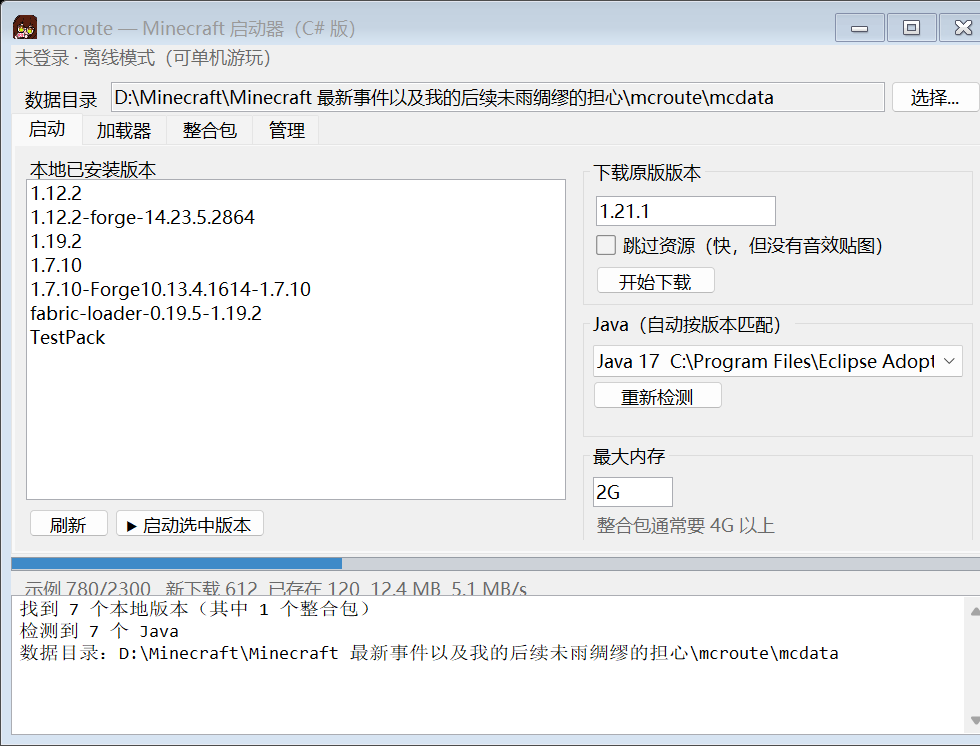
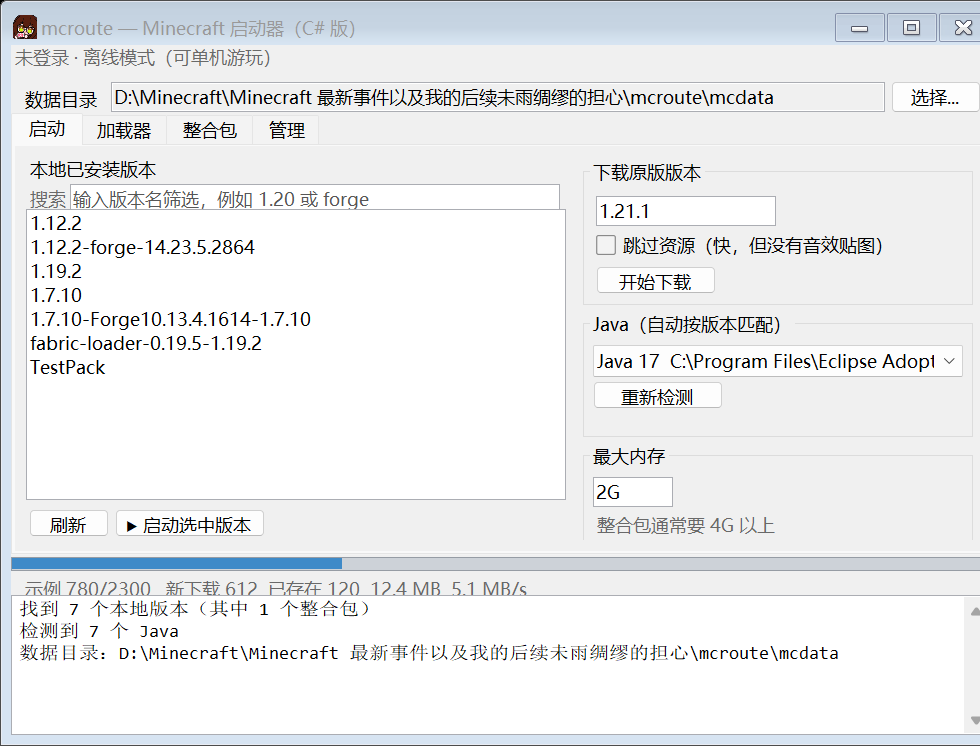
feat: version search filter + double-click/Enter launch; add UI design reference mockup

Changed region(s): [[0.0306, 0.2466, 0.398, 0.5241]]

diff --git a/csharp/MainForm.cs b/csharp/MainForm.cs
@@ -27,6 +27,8 @@ namespace Mcroute
         private TextBox _dataDirBox;
         private SimpleProgress _progress;
         private TextBox _cfKeyBox;
+        private TextBox _searchBox;
+        private readonly List<string> _allVersions = new List<string>();
         private readonly List<Tuple<string, int>> _javas = new List<Tuple<string, int>>();
 
         public MainForm()
@@ -129,7 +131,20 @@ namespace Mcroute
             var leftInner = new Panel { Dock = DockStyle.Fill, Padding = new Padding(0, 0, 8, 0) };
             var listLabel = new Label { Text = "本地已安装版本", Dock = DockStyle.Top, Height = 22 };
             _versionList = new ListBox { Dock = DockStyle.Fill, IntegralHeight = false };
-            _versionList.DoubleClick += (s, e) => LaunchSelected();
+            _versionList.DoubleClick += (s, e) => LaunchSelected();   // 双击直接启动
+            _versionList.KeyDown += (s2, e2) =>
+            {
+                if (e2.KeyCode == Keys.Enter) { e2.SuppressKeyPress = true; LaunchSelected(); }
+            };
+
+            var searchRow = new Panel { Dock = DockStyle.Top, Height = 30 };
+            var searchIcon = new Label { Text = "搜索", AutoSize = true, Location = new Point(0, 8), ForeColor = Color.DimGray };
+            _searchBox = new TextBox { Left = 44, Top = 5, Width = 260, Anchor = AnchorStyles.Left | AnchorStyles.Top | AnchorStyles.Right };
+            searchRow.Resize += (s2, e2) => _searchBox.Width = Math.Max(80, searchRow.ClientSize.Width - 50);
+            _searchBox.TextChanged += (s2, e2) => ApplyVersionFilter();
+            searchRow.Controls.Add(searchIcon);
+            searchRow.Controls.Add(_searchBox);
+            ApplyCueBanner(_searchBox, "输入版本名筛选，例如 1.20 或 forge");
             var btnRow = new FlowLayoutPanel { Dock = DockStyle.Bottom, Height = 40, Padding = new Padding(0, 6, 0, 0) };
             var refresh = new Button { Text = "刷新", Width = 80, Height = 28 };
             refresh.Click += (s, e) => RefreshAll();
@@ -138,6 +153,7 @@ namespace Mcroute
             btnRow.Controls.Add(refresh);
             btnRow.Controls.Add(launch);
             leftInner.Controls.Add(_versionList);
+            leftInner.Controls.Add(searchRow);
             leftInner.Controls.Add(listLabel);
             leftInner.Controls.Add(btnRow);
 
@@ -426,10 +442,47 @@ namespace Mcroute
             }
         }
 
+        /// <summary>按搜索框内容过滤两个列表。</summary>
+        private void ApplyVersionFilter()
+        {
+            string keyword = _searchBox == null ? "" : _searchBox.Text.Trim();
+            _versionList.BeginUpdate();
+            _manageList.BeginUpdate();
+            _versionList.Items.Clear();
+            _manageList.Items.Clear();
+            string root = Path.Combine(_baseDir, "versions");
+            foreach (string name in _allVersions)
+            {
+                if (keyword.Length > 0 && name.IndexOf(keyword, StringComparison.OrdinalIgnoreCase) < 0)
+                    continue;
+                string dir = Path.Combine(root, name);
+                string tag = File.Exists(Path.Combine(dir, "instance.json"))
+                    ? "[整合包]"
+                    : (Directory.Exists(Path.Combine(dir, "mods")) ? "[外部]" : "[原版]");
+                _versionList.Items.Add(name);
+                _manageList.Items.Add(name + "   " + tag);
+            }
+            _versionList.EndUpdate();
+            _manageList.EndUpdate();
+
+            if (keyword.Length > 0)
+                _status.Text = string.Format("筛选 \"{0}\"：{1}/{2} 个版本", keyword, _versionList.Items.Count, _allVersions.Count);
+        }
+
+        [System.Runtime.InteropServices.DllImport("user32.dll", CharSet = System.Runtime.InteropServices.CharSet.Unicode)]
+        private static extern IntPtr SendMessage(IntPtr hWnd, int msg, IntPtr wParam, string lParam);
+
+        /// <summary>给输入框加灰色提示文字（WinForms 没有 placeholder）。</summary>
+        private static void ApplyCueBanner(TextBox box, string text)
+        {
+            try { SendMessage(box.Handle, 0x1501, (IntPtr)1, text); } catch { }
+        }
+
         // ---------------- 数据 ----------------
         private void RefreshAll()
         {
             _dataDirBox.Text = _baseDir;
+            if (_searchBox != null) _searchBox.Text = "";
             RefreshVersions();
             RefreshJava();
         }
@@ -446,18 +499,12 @@ namespace Mcroute
             }
 
             var names = Directory.GetDirectories(root).Select(Path.GetFileName).OrderBy(x => x).ToList();
-            int packs = 0;
-            foreach (string name in names)
-            {
-                string dir = Path.Combine(root, name);
-                string tag = File.Exists(Path.Combine(dir, "instance.json"))
-                    ? "[整合包]"
-                    : (Directory.Exists(Path.Combine(dir, "mods")) ? "[外部]" : "[原版]");
-                if (tag == "[整合包]") packs++;
-                _versionList.Items.Add(name);
-                _manageList.Items.Add(name + "   " + tag);
-            }
-            AppendLog(string.Format("找到 {0} 个本地版本（其中 {1} 个整合包）", names.Count, packs));
+            _allVersions.Clear();
+            _allVersions.AddRange(names);
+
+            int packs = _allVersions.Count(n => File.Exists(Path.Combine(root, n, "instance.json")));
+            ApplyVersionFilter();
+            AppendLog(string.Format("找到 {0} 个本地版本（其中 {1} 个整合包）", _allVersions.Count, packs));
         }
 
         private void RefreshJava()
